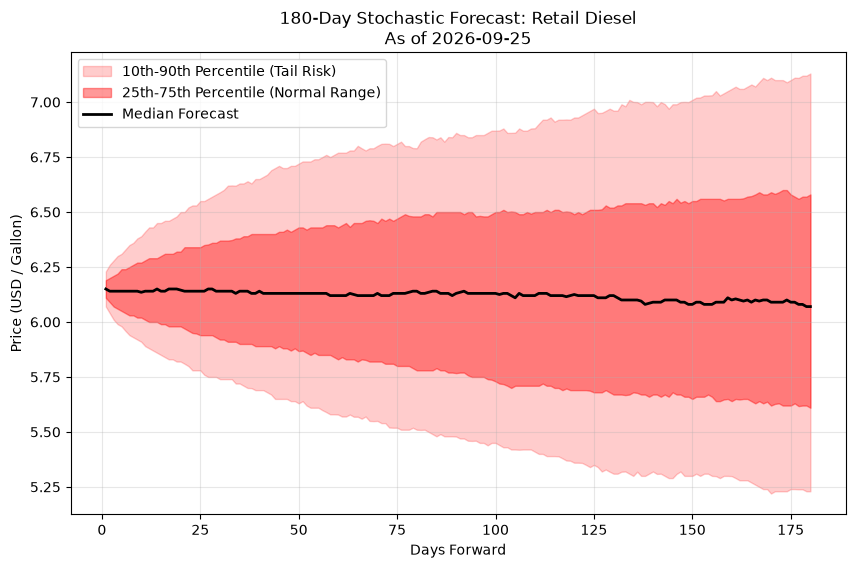
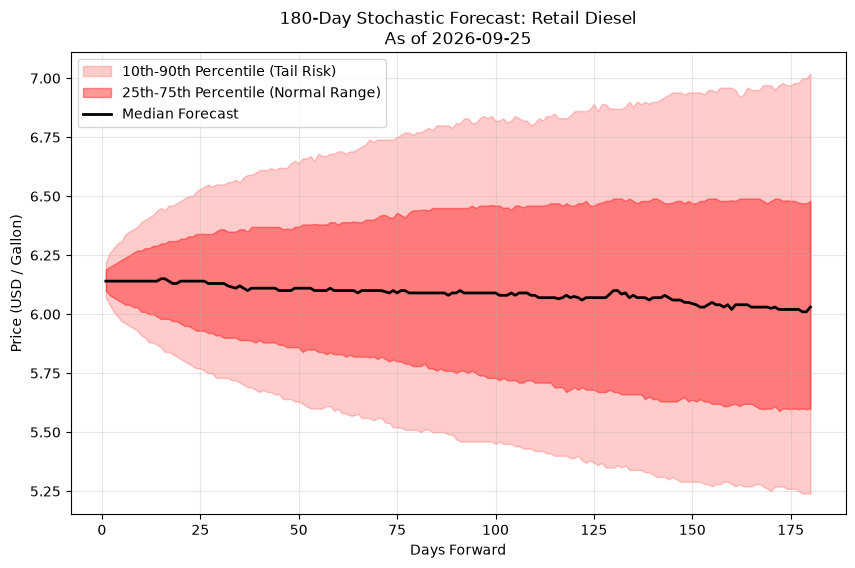
Publish forecast charts in daily pipeline

diff --git a/README.md b/README.md
@@ -17,8 +17,9 @@ simulations, and generates forecast charts for retail gasoline and diesel.
   `gasoline_forecast.png` and `diesel_forecast.png` with the date stamped in the
   title.
 - `run_pipeline.bat` runs calibration, builds and runs the Go simulation,
-  generates both charts, and refreshes the scenario what-if report. It stops
-  if any step fails.
+  generates both charts, and refreshes the scenario what-if report. It publishes
+  the report, forecast charts, and scenario charts to `main`, and stops if any
+  step fails.
 - `scenario_report.py` runs the simulator once per what-if scenario (Hormuz
   closure, Saudi production cut, Iran sanctions lifted, etc.), then writes a
   Bloomberg-style markdown report (`oil_market_outlook.md`) with scenario
